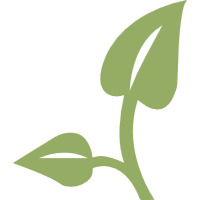
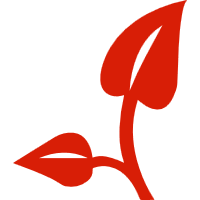
增添backtotop 叶子改为红色

Changed region(s): [[0.06, 0.0, 0.93, 1.0]]

diff --git a/forgiveMarket/public/css/homepage.css b/forgiveMarket/public/css/homepage.css
@@ -3,45 +3,6 @@ body
 	overflow-x: hidden;
 }
 /*------------------------------------------头部*/
-.header 
-{
-	position: relative;
-	width: 100%;
-	height: 60px;
-	line-height: 120px;
-	background-color: white;
-}
-
-.headerimg
-{
-	position: absolute;
-	height: 30px;
-	margin: 10px 10px;
-}
-
-.headerimg-log 
-{
-	margin-top: 30px;
-	margin-left: 8%;
-}
-
-.innisfreelogo 
-{
-	height: 60px;
-	margin-left: 36%;
-}
-
-.headerimg-car 
-{
-	margin-top: 30px;
-	margin-left: 78%;
-}
-
-.headerimg-user 
-{
-	margin-top: 30px;
-	margin-left: 88%;
-}
 
 /*--------------------------------------------搜索栏*/
 .search 
@@ -49,26 +10,25 @@ body
 	position: relative;
 	margin: 30px auto;
 	width: 100%;
-	height: 50px;
+	height: 40px;
 	border: 2px solid #ACBD93;
 	border-radius: 10px;
-	background-color: whitesmoke;
 }
 
 .searchimg
 {
 	position: absolute;
-	width: 30px;
-	height: 30px;
+	width: 20px;
+	height: 20px;
 	margin-left: 5%;
-	margin-top: 10px;
+	margin-top: 5px;
 }
 .search-textbox
 {
 	position: absolute;
 	margin-left: 60px;
-	margin-top: 10px;
-	font-size: 20px;
+	margin-top: 0px;
+	font-size: 15px;
 	width: 80%;
 	height: 30px;
 	border: none;
@@ -86,6 +46,7 @@ body
 	position: relative;
 	width: 100%;
 	height: 250px;
+	margin-top: 50px;
 	overflow: hidden;
 }
 

diff --git a/forgiveMarket/public/views/homepage.html b/forgiveMarket/public/views/homepage.html
@@ -27,7 +27,7 @@
 			</div>
 		</div>
 	
-		<div class="search">
+		<div id="search" class="search">
 			<img class="searchimg" src="../img/innisfreeIco/search.png"/>
 			<input class="search-textbox" placeholder="搜索"/>
 			<img class="search-title" src="../img/innisfree-img/header_quick_bestseller.png" />
@@ -164,7 +164,11 @@
 			</div>
 			<img class="hotgoods-topline"src="../img/innisfree-img/top10_ttl_line.png" />
 		</div> 
-		
+	    
+	    <div class="backtotop">
+	    	<img style="position: fixed; width: 10%; bottom:60px; margin-left: 85%; z-index: 1111;" src="../img/innisfree矢量图标/向上.png" />
+	    </div>
+	    
 		<div class="footer">		
 			<img class="footer-logo" src="../img/innisfree-img/BG_footer_170705_2.jpg" />
 		</div>

diff --git a/forgiveMarket/public/js/homepage.js b/forgiveMarket/public/js/homepage.js
@@ -139,21 +139,22 @@ $(function(){
 	var _wheeldelta = function(e)
 	{
 		e = e || window.event;
-		console.log(e.wheelDelta);
 		if(e.wheelDelta < 0)
 		{
 			var scrollh = document.body.scrollTop ||  document.documentElement.scrollTop;
-			console.log(scrollh)
-			if(scrollh >1600 && scrollh <1700)
+			if(scrollh >1600 && scrollh <1800)
 			{
 				$(".popdiv").slideDown();		
 				$(".popdiv-close").click(function(){
 					$(".popdiv").slideUp();
 				})
-			}			
+			}	
 		}				
 	}
 	window.onmousewheel = document.onmousewheel = _wheeldelta; 
 	
-});
+	$(".backtotop").click(function(){
+		scrollTo(0,0);
+	})
 
+});
